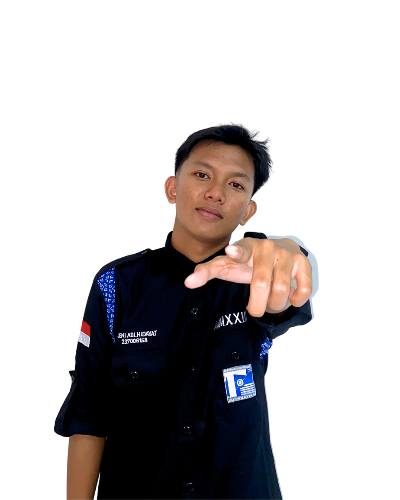
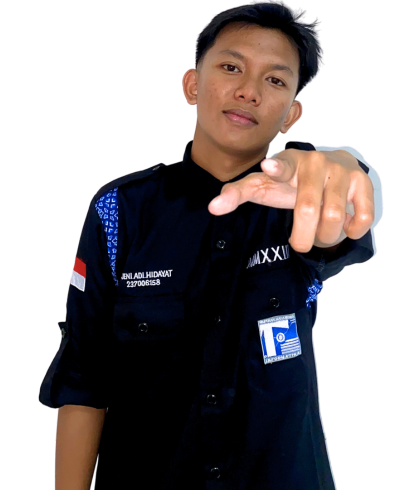
final

diff --git a/assets/css/style.css b/assets/css/style.css
@@ -932,3 +932,8 @@ about
   -webkit-background-clip: text;
   color: transparent;
 }
+
+.features-icon img {
+  height: 200%;
+  width: 200%;
+}
